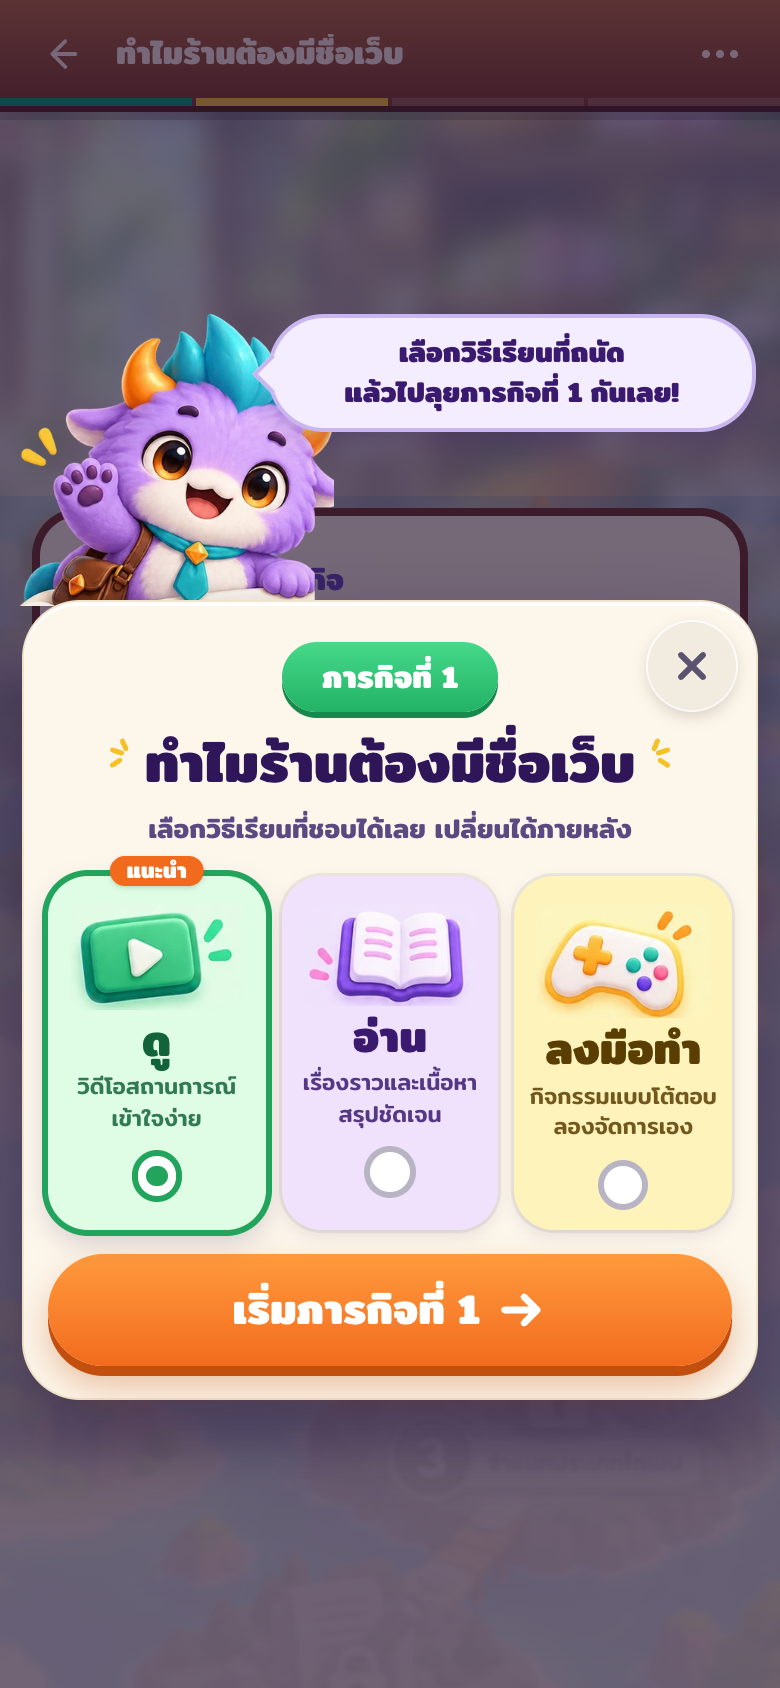
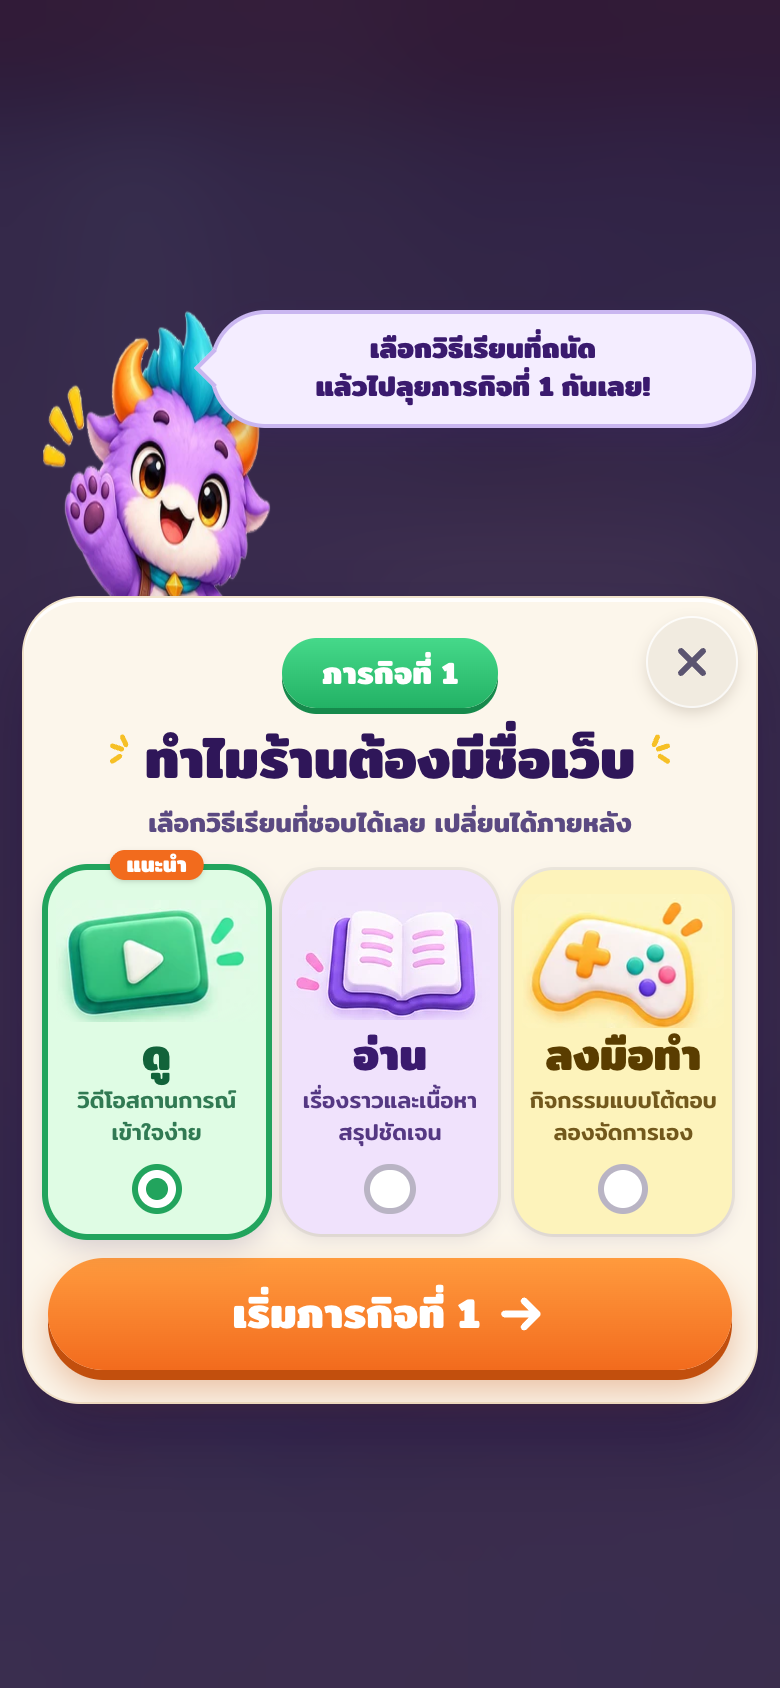
fix(mission): mode popup uses official Dome, aligned cards, opaque backdrop

diff --git a/components/learn/mode-popup.tsx b/components/learn/mode-popup.tsx
@@ -92,7 +92,7 @@ export function ModePopup({
 
   return (
     <motion.div
-      className="fixed inset-0 z-[60] flex items-end justify-center overflow-y-auto bg-[#1d0f3a]/60 px-3 pb-4 pt-6 sm:items-center"
+      className="fixed inset-0 z-[60] flex items-end justify-center overflow-y-auto bg-[#1d0f3a]/85 backdrop-blur-xl px-3 pb-4 pt-6 sm:items-center"
       initial={reduce ? { opacity: 0 } : { opacity: 0 }}
       animate={{ opacity: 1 }}
       transition={{ duration: reduce ? 0.01 : 0.2 }}
@@ -114,15 +114,20 @@ export function ModePopup({
           animate={{ y: 0, opacity: 1 }}
           transition={reduce ? { duration: 0.01 } : { ...spring, delay: 0.12 }}
         >
-          {/* eslint-disable-next-line @next/next/no-img-element -- ภาพตัดจากดีไซน์ */}
-          <img
-            src="/ui/mode/dome.webp"
-            alt=""
-            aria-hidden="true"
-            className="relative -mb-[2px] shrink-0 select-none"
-            style={{ marginLeft: '-1%', height: DOME_H, width: 'auto' }}
-            draggable={false}
-          />
+          <div
+            className="relative shrink-0 overflow-hidden"
+            style={{ height: DOME_H, width: `calc(${DOME_H} * 0.8)`, marginLeft: '2%' }}
+          >
+            {/* eslint-disable-next-line @next/next/no-img-element -- มาสคอตทางการ โผล่แค่ครึ่งบนเหนือขอบการ์ด */}
+            <img
+              src="/dome/mascot/dome-greet.webp"
+              alt=""
+              aria-hidden="true"
+              draggable={false}
+              className="absolute left-0 top-0 max-w-none select-none"
+              style={{ height: `calc(${DOME_H} * 1.62)`, width: 'auto' }}
+            />
+          </div>
           <div className="relative mb-[22%] ml-[-9%] min-w-0 flex-1 self-center sm:mb-[14%]">
             <motion.p
               className="relative rounded-[28px] border-2 border-[#c9b6f0] bg-[#f4edff] px-3 py-2 text-center text-[clamp(12px,3.6vw,18px)] font-extrabold leading-snug text-[#3a1a6e] shadow-[0_6px_14px_rgba(60,30,110,0.22)]"
@@ -188,7 +193,7 @@ export function ModePopup({
                   animate={{ opacity: 1, y: 0 }}
                   transition={reduce ? { duration: 0.01 } : { ...spring, delay: 0.2 + i * 0.06 }}
                   whileTap={reduce ? undefined : { scale: 0.96 }}
-                  className="relative flex min-w-0 flex-col items-center rounded-[20px] px-1 pb-2.5 pt-3.5 text-center outline-none transition-shadow focus-visible:ring-4 focus-visible:ring-[#7c4dd6]/50"
+                  className="relative flex h-full min-w-0 flex-col items-center rounded-[20px] px-1 pb-2.5 pt-3.5 text-center outline-none transition-shadow focus-visible:ring-4 focus-visible:ring-[#7c4dd6]/50"
                   style={{
                     backgroundColor: m.tint,
                     boxShadow: on
@@ -206,25 +211,28 @@ export function ModePopup({
                     </span>
                   ) : null}
                   {/* eslint-disable-next-line @next/next/no-img-element -- ไอคอน 3D ตัดจากดีไซน์ */}
-                  <img
-                    src={m.icon}
-                    alt=""
-                    aria-hidden="true"
-                    draggable={false}
-                    className="h-auto w-[86%] max-w-[120px] select-none"
-                    style={{ WebkitMaskImage: FADE_EDGES, maskImage: FADE_EDGES }}
-                  />
+                  <span className="flex h-[clamp(52px,16vw,84px)] w-full items-center justify-center">
+                    <img
+                      src={m.icon}
+                      alt=""
+                      aria-hidden="true"
+                      draggable={false}
+                      className="h-full w-auto max-w-full select-none object-contain"
+                      style={{ WebkitMaskImage: FADE_EDGES, maskImage: FADE_EDGES }}
+                    />
+                  </span>
                   <span className="mt-0.5 font-display text-[clamp(18px,5.6vw,28px)] font-extrabold leading-tight">
                     {m.title}
                   </span>
-                  <span className="mt-0.5 text-[clamp(10px,2.9vw,14px)] font-medium leading-snug opacity-85">
+                  <span className="mt-0.5 min-h-[2.7em] text-[clamp(10px,2.9vw,14px)] font-medium leading-snug opacity-85">
                     {m.lines[0]}
                     <br />
                     {m.lines[1]}
                   </span>
+                  <span className="h-2 shrink-0" aria-hidden="true" />
                   <span
                     aria-hidden="true"
-                    className="mt-2 grid size-[clamp(22px,6.5vw,30px)] place-items-center rounded-full border-[3px] bg-white"
+                    className="mt-auto grid size-[clamp(22px,6.5vw,30px)] place-items-center rounded-full border-[3px] bg-white"
                     style={{ borderColor: on ? m.ring : '#b9b4c4' }}
                   >
                     {on ? <span className="size-[55%] rounded-full" style={{ backgroundColor: m.ring }} /> : null}
